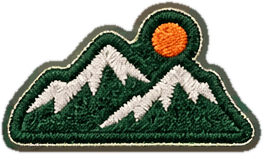
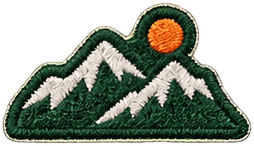
feat(wappen): 자수 패치 두 번째 시트 6개 추가 (체리 하트·궤도 별·스마일 데이지·번개 불꽃·보라 행성·파도) — 기본 세트 36개
- raster.py: 투명 배경 RGBA 시트는 알파 채널을 마스크·컷아웃 알파로 그대로 사용(부드러운 테두리 유지).
  첫 시트도 실제 투명 PNG 라 같은 방식으로 다시 잘려 몇 px 타이트해짐(manifest 치수 갱신)
- raster.json 에 sheets 항목 추가(2×3), 원본은 tools/wappen-seed/raster/patches-2026-10-07b.png
- 실수로 추적되던 tools/wappen-seed/__pycache__ 제거 + .gitignore

Claude-Session: https://claude.ai/code/session_01XcSYHLLpHyshgRvCfEcA1z

diff --git a/wappen/seed/manifest.js b/wappen/seed/manifest.js
@@ -3,34 +3,40 @@
 // 서버(functions/wappen-api.js admin_seed_items)와 관리자 화면이 같은 파일을 import.
 export const SEED_VERSION = 3;
 export const SEED_ITEMS = [
-    {"key": "p-cherry", "name": "체리 패치", "category": "과일", "tags": ["체리", "빨강", "자수"], "file": "p-cherry.png", "w": 243, "h": 217, "kind": "raster"},
-    {"key": "p-plaid-heart", "name": "체크 하트 핀", "category": "도형·기호", "tags": ["하트", "옷핀", "해골", "펑크", "자수"], "file": "p-plaid-heart.png", "w": 249, "h": 238, "kind": "raster"},
-    {"key": "p-what-the-hell", "name": "what the hell 별", "category": "글자", "tags": ["별", "what the hell", "영문", "자수"], "file": "p-what-the-hell.png", "w": 208, "h": 237, "kind": "raster"},
-    {"key": "p-checker-star", "name": "체커 별", "category": "도형·기호", "tags": ["별", "체크", "흑백", "자수"], "file": "p-checker-star.png", "w": 219, "h": 214, "kind": "raster"},
-    {"key": "p-pink-guitar", "name": "핑크 기타", "category": "음악", "tags": ["기타", "일렉", "핑크", "밴드", "자수"], "file": "p-pink-guitar.png", "w": 237, "h": 268, "kind": "raster"},
-    {"key": "p-pink-bolt", "name": "핑크 번개", "category": "도형·기호", "tags": ["번개", "핑크", "자수"], "file": "p-pink-bolt.png", "w": 159, "h": 215, "kind": "raster"},
-    {"key": "p-pork-bowl", "name": "네기시오 부타동", "category": "음식", "tags": ["덮밥", "돈부리", "일식", "자수"], "file": "p-pork-bowl.png", "w": 263, "h": 209, "kind": "raster"},
-    {"key": "p-orange-daisy", "name": "주황 데이지", "category": "캐릭터·자연", "tags": ["꽃", "데이지", "주황", "자수"], "file": "p-orange-daisy.png", "w": 180, "h": 213, "kind": "raster"},
-    {"key": "p-get-lucky", "name": "GET LUCKY!", "category": "글자", "tags": ["get lucky", "행운", "영문", "자수"], "file": "p-get-lucky.png", "w": 229, "h": 188, "kind": "raster"},
-    {"key": "p-blue-butterfly", "name": "파랑 나비", "category": "동물", "tags": ["나비", "파랑", "자수"], "file": "p-blue-butterfly.png", "w": 258, "h": 194, "kind": "raster"},
-    {"key": "p-addiction", "name": "Addiction", "category": "글자", "tags": ["addiction", "하트", "영문", "자수"], "file": "p-addiction.png", "w": 289, "h": 171, "kind": "raster"},
-    {"key": "p-three-stars", "name": "별 세 개", "category": "도형·기호", "tags": ["별", "반짝", "흰색", "자수"], "file": "p-three-stars.png", "w": 160, "h": 176, "kind": "raster"},
-    {"key": "p-marigold", "name": "메리골드", "category": "캐릭터·자연", "tags": ["꽃", "메리골드", "주황", "자수"], "file": "p-marigold.png", "w": 198, "h": 186, "kind": "raster"},
-    {"key": "p-moon-star", "name": "초승달과 별", "category": "캐릭터·자연", "tags": ["달", "별", "밤", "자수"], "file": "p-moon-star.png", "w": 185, "h": 182, "kind": "raster"},
-    {"key": "p-stand-up", "name": "stand up!", "category": "글자", "tags": ["stand up", "영문", "자수"], "file": "p-stand-up.png", "w": 204, "h": 187, "kind": "raster"},
-    {"key": "p-vinyl", "name": "LP 레코드", "category": "음악", "tags": ["LP", "레코드", "음반", "자수"], "file": "p-vinyl.png", "w": 218, "h": 188, "kind": "raster"},
-    {"key": "p-wing-heart", "name": "날개 하트", "category": "도형·기호", "tags": ["하트", "별", "핑크", "자수"], "file": "p-wing-heart.png", "w": 258, "h": 158, "kind": "raster"},
-    {"key": "p-flame", "name": "불꽃", "category": "도형·기호", "tags": ["불", "화염", "빨강", "자수"], "file": "p-flame.png", "w": 180, "h": 200, "kind": "raster"},
-    {"key": "p-burst", "name": "펑 폭발", "category": "도형·기호", "tags": ["폭발", "번쩍", "파랑", "자수"], "file": "p-burst.png", "w": 214, "h": 174, "kind": "raster"},
-    {"key": "p-loud-hot-crazy", "name": "LOUD! HOT! CRAZY!", "category": "글자", "tags": ["loud", "hot", "crazy", "영문", "자수"], "file": "p-loud-hot-crazy.png", "w": 235, "h": 188, "kind": "raster"},
-    {"key": "p-bandage-heart", "name": "반창고 하트", "category": "도형·기호", "tags": ["하트", "반창고", "체크", "자수"], "file": "p-bandage-heart.png", "w": 208, "h": 177, "kind": "raster"},
-    {"key": "p-sunset", "name": "석양", "category": "캐릭터·자연", "tags": ["노을", "바다", "해", "자수"], "file": "p-sunset.png", "w": 242, "h": 165, "kind": "raster"},
-    {"key": "p-mountain", "name": "산과 해", "category": "캐릭터·자연", "tags": ["산", "해", "자연", "자수"], "file": "p-mountain.png", "w": 263, "h": 154, "kind": "raster"},
-    {"key": "p-dolphin", "name": "돌고래", "category": "동물", "tags": ["돌고래", "바다", "파랑", "자수"], "file": "p-dolphin.png", "w": 221, "h": 182, "kind": "raster"},
-    {"key": "p-pink-flower", "name": "분홍 꽃", "category": "캐릭터·자연", "tags": ["꽃", "분홍", "자수"], "file": "p-pink-flower.png", "w": 173, "h": 166, "kind": "raster"},
-    {"key": "p-zebra-star", "name": "얼룩 별", "category": "도형·기호", "tags": ["별", "줄무늬", "흑백", "자수"], "file": "p-zebra-star.png", "w": 188, "h": 177, "kind": "raster"},
-    {"key": "p-saturn", "name": "토성", "category": "캐릭터·자연", "tags": ["토성", "행성", "우주", "자수"], "file": "p-saturn.png", "w": 229, "h": 153, "kind": "raster"},
-    {"key": "p-black-cat", "name": "검은 고양이", "category": "동물", "tags": ["고양이", "검정", "자수"], "file": "p-black-cat.png", "w": 191, "h": 161, "kind": "raster"},
-    {"key": "p-dice", "name": "빨간 주사위", "category": "도형·기호", "tags": ["주사위", "빨강", "게임", "자수"], "file": "p-dice.png", "w": 202, "h": 164, "kind": "raster"},
-    {"key": "p-music-note", "name": "핑크 음표", "category": "음악", "tags": ["음표", "음악", "핑크", "자수"], "file": "p-music-note.png", "w": 141, "h": 169, "kind": "raster"},
+    {"key": "p-cherry", "name": "체리 패치", "category": "과일", "tags": ["체리", "빨강", "자수"], "file": "p-cherry.png", "w": 235, "h": 209, "kind": "raster"},
+    {"key": "p-plaid-heart", "name": "체크 하트 핀", "category": "도형·기호", "tags": ["하트", "옷핀", "해골", "펑크", "자수"], "file": "p-plaid-heart.png", "w": 242, "h": 230, "kind": "raster"},
+    {"key": "p-what-the-hell", "name": "what the hell 별", "category": "글자", "tags": ["별", "what the hell", "영문", "자수"], "file": "p-what-the-hell.png", "w": 199, "h": 229, "kind": "raster"},
+    {"key": "p-checker-star", "name": "체커 별", "category": "도형·기호", "tags": ["별", "체크", "흑백", "자수"], "file": "p-checker-star.png", "w": 213, "h": 208, "kind": "raster"},
+    {"key": "p-pink-guitar", "name": "핑크 기타", "category": "음악", "tags": ["기타", "일렉", "핑크", "밴드", "자수"], "file": "p-pink-guitar.png", "w": 230, "h": 261, "kind": "raster"},
+    {"key": "p-pink-bolt", "name": "핑크 번개", "category": "도형·기호", "tags": ["번개", "핑크", "자수"], "file": "p-pink-bolt.png", "w": 155, "h": 211, "kind": "raster"},
+    {"key": "p-pork-bowl", "name": "네기시오 부타동", "category": "음식", "tags": ["덮밥", "돈부리", "일식", "자수"], "file": "p-pork-bowl.png", "w": 256, "h": 200, "kind": "raster"},
+    {"key": "p-orange-daisy", "name": "주황 데이지", "category": "캐릭터·자연", "tags": ["꽃", "데이지", "주황", "자수"], "file": "p-orange-daisy.png", "w": 173, "h": 205, "kind": "raster"},
+    {"key": "p-get-lucky", "name": "GET LUCKY!", "category": "글자", "tags": ["get lucky", "행운", "영문", "자수"], "file": "p-get-lucky.png", "w": 222, "h": 181, "kind": "raster"},
+    {"key": "p-blue-butterfly", "name": "파랑 나비", "category": "동물", "tags": ["나비", "파랑", "자수"], "file": "p-blue-butterfly.png", "w": 251, "h": 188, "kind": "raster"},
+    {"key": "p-addiction", "name": "Addiction", "category": "글자", "tags": ["addiction", "하트", "영문", "자수"], "file": "p-addiction.png", "w": 284, "h": 166, "kind": "raster"},
+    {"key": "p-three-stars", "name": "별 세 개", "category": "도형·기호", "tags": ["별", "반짝", "흰색", "자수"], "file": "p-three-stars.png", "w": 153, "h": 169, "kind": "raster"},
+    {"key": "p-marigold", "name": "메리골드", "category": "캐릭터·자연", "tags": ["꽃", "메리골드", "주황", "자수"], "file": "p-marigold.png", "w": 191, "h": 179, "kind": "raster"},
+    {"key": "p-moon-star", "name": "초승달과 별", "category": "캐릭터·자연", "tags": ["달", "별", "밤", "자수"], "file": "p-moon-star.png", "w": 177, "h": 174, "kind": "raster"},
+    {"key": "p-stand-up", "name": "stand up!", "category": "글자", "tags": ["stand up", "영문", "자수"], "file": "p-stand-up.png", "w": 198, "h": 179, "kind": "raster"},
+    {"key": "p-vinyl", "name": "LP 레코드", "category": "음악", "tags": ["LP", "레코드", "음반", "자수"], "file": "p-vinyl.png", "w": 211, "h": 182, "kind": "raster"},
+    {"key": "p-wing-heart", "name": "날개 하트", "category": "도형·기호", "tags": ["하트", "별", "핑크", "자수"], "file": "p-wing-heart.png", "w": 251, "h": 150, "kind": "raster"},
+    {"key": "p-flame", "name": "불꽃", "category": "도형·기호", "tags": ["불", "화염", "빨강", "자수"], "file": "p-flame.png", "w": 173, "h": 192, "kind": "raster"},
+    {"key": "p-burst", "name": "펑 폭발", "category": "도형·기호", "tags": ["폭발", "번쩍", "파랑", "자수"], "file": "p-burst.png", "w": 207, "h": 167, "kind": "raster"},
+    {"key": "p-loud-hot-crazy", "name": "LOUD! HOT! CRAZY!", "category": "글자", "tags": ["loud", "hot", "crazy", "영문", "자수"], "file": "p-loud-hot-crazy.png", "w": 228, "h": 181, "kind": "raster"},
+    {"key": "p-bandage-heart", "name": "반창고 하트", "category": "도형·기호", "tags": ["하트", "반창고", "체크", "자수"], "file": "p-bandage-heart.png", "w": 199, "h": 171, "kind": "raster"},
+    {"key": "p-sunset", "name": "석양", "category": "캐릭터·자연", "tags": ["노을", "바다", "해", "자수"], "file": "p-sunset.png", "w": 235, "h": 159, "kind": "raster"},
+    {"key": "p-mountain", "name": "산과 해", "category": "캐릭터·자연", "tags": ["산", "해", "자연", "자수"], "file": "p-mountain.png", "w": 254, "h": 146, "kind": "raster"},
+    {"key": "p-dolphin", "name": "돌고래", "category": "동물", "tags": ["돌고래", "바다", "파랑", "자수"], "file": "p-dolphin.png", "w": 214, "h": 176, "kind": "raster"},
+    {"key": "p-pink-flower", "name": "분홍 꽃", "category": "캐릭터·자연", "tags": ["꽃", "분홍", "자수"], "file": "p-pink-flower.png", "w": 164, "h": 159, "kind": "raster"},
+    {"key": "p-zebra-star", "name": "얼룩 별", "category": "도형·기호", "tags": ["별", "줄무늬", "흑백", "자수"], "file": "p-zebra-star.png", "w": 182, "h": 169, "kind": "raster"},
+    {"key": "p-saturn", "name": "토성", "category": "캐릭터·자연", "tags": ["토성", "행성", "우주", "자수"], "file": "p-saturn.png", "w": 222, "h": 146, "kind": "raster"},
+    {"key": "p-black-cat", "name": "검은 고양이", "category": "동물", "tags": ["고양이", "검정", "자수"], "file": "p-black-cat.png", "w": 185, "h": 156, "kind": "raster"},
+    {"key": "p-dice", "name": "빨간 주사위", "category": "도형·기호", "tags": ["주사위", "빨강", "게임", "자수"], "file": "p-dice.png", "w": 196, "h": 158, "kind": "raster"},
+    {"key": "p-music-note", "name": "핑크 음표", "category": "음악", "tags": ["음표", "음악", "핑크", "자수"], "file": "p-music-note.png", "w": 134, "h": 162, "kind": "raster"},
+    {"key": "p2-cherry-heart", "name": "체리 하트", "category": "도형·기호", "tags": ["하트", "체리", "핑크", "반짝", "자수"], "file": "p2-cherry-heart.png", "w": 400, "h": 380, "kind": "raster"},
+    {"key": "p2-orbit-star", "name": "궤도 별", "category": "도형·기호", "tags": ["별", "궤도", "파랑", "반짝", "자수"], "file": "p2-orbit-star.png", "w": 418, "h": 413, "kind": "raster"},
+    {"key": "p2-smile-daisy", "name": "스마일 데이지", "category": "캐릭터·자연", "tags": ["꽃", "데이지", "스마일", "자수"], "file": "p2-smile-daisy.png", "w": 404, "h": 419, "kind": "raster"},
+    {"key": "p2-bolt-flame", "name": "번개 불꽃", "category": "도형·기호", "tags": ["불", "번개", "빨강", "자수"], "file": "p2-bolt-flame.png", "w": 356, "h": 446, "kind": "raster"},
+    {"key": "p2-purple-planet", "name": "보라 행성", "category": "캐릭터·자연", "tags": ["행성", "토성", "우주", "보라", "자수"], "file": "p2-purple-planet.png", "w": 376, "h": 319, "kind": "raster"},
+    {"key": "p2-wave", "name": "파도", "category": "캐릭터·자연", "tags": ["파도", "바다", "파랑", "자수"], "file": "p2-wave.png", "w": 409, "h": 353, "kind": "raster"},
 ];

diff --git a/tools/wappen-seed/raster.py b/tools/wappen-seed/raster.py
@@ -3,6 +3,7 @@
 # 알고리즘(의존: numpy·PIL): 배경은 부드러운 그라데이션, 패치는 자수 질감 → 국소 그라데이션 평균이 임계보다 큰 곳 = 전경
 #   → 닫힘(7px)·구멍 메움 → 연결 성분 → 중심 좌표를 행·열 묶음으로 격자 배정(너무 길쭉하면 가장 잘록한 줄에서 둘로 분리)
 #   → 셀마다 성분 합집합을 알파로(1px 팽창 + 0.8px 블러), 256색 팔레트(디더)로 저장.
+#   시트가 이미 투명 배경(RGBA, 투명 비율 20% 이상)이면 질감 대신 알파 채널(>128)을 마스크로 쓰고, 컷아웃 알파도 원본 알파를 그대로 쓴다(부드러운 테두리 유지).
 import json, os, sys
 import numpy as np
 from PIL import Image, ImageDraw, ImageFilter
@@ -51,12 +52,21 @@ def _split_waist(c):
 def cut_sheet(sheet, out_dir, src_dir=None):
     """시트 하나를 잘라 out_dir 에 저장, manifest 항목 목록을 돌려준다"""
     src = os.path.join(src_dir or os.path.join(HERE, 'raster'), sheet['src'])
-    im = Image.open(src).convert('RGB'); a = np.asarray(im).astype(np.float32)
-    g = np.abs(np.diff(a, axis=1, prepend=a[:, :1])).sum(2) + np.abs(np.diff(a, axis=0, prepend=a[:1])).sum(2)
-    mask = Image.fromarray(((_boxmean(g, 4) > sheet.get('threshold', 18)) * 255).astype(np.uint8))
-    mask = mask.filter(ImageFilter.MaxFilter(7)).filter(ImageFilter.MinFilter(7))
-    inv = Image.eval(mask, lambda v: 255 - v); ImageDraw.floodfill(inv, (0, 0), 128)
-    mk = (np.asarray(mask) > 0) | (np.asarray(inv) == 255)          # 바깥과 안 이어진 배경 = 구멍 → 전경
+    src_im = Image.open(src)
+    src_alpha = None
+    if src_im.mode in ('RGBA', 'LA', 'P'):
+        al = np.asarray(src_im.convert('RGBA'))[:, :, 3]
+        if (al < 10).mean() >= 0.2: src_alpha = al                      # 진짜 투명 배경 시트
+    im = src_im.convert('RGB')
+    if src_alpha is not None:
+        mk = src_alpha > 128
+    else:
+        a = np.asarray(im).astype(np.float32)
+        g = np.abs(np.diff(a, axis=1, prepend=a[:, :1])).sum(2) + np.abs(np.diff(a, axis=0, prepend=a[:1])).sum(2)
+        mask = Image.fromarray(((_boxmean(g, 4) > sheet.get('threshold', 18)) * 255).astype(np.uint8))
+        mask = mask.filter(ImageFilter.MaxFilter(7)).filter(ImageFilter.MinFilter(7))
+        inv = Image.eval(mask, lambda v: 255 - v); ImageDraw.floodfill(inv, (0, 0), 128)
+        mk = (np.asarray(mask) > 0) | (np.asarray(inv) == 255)      # 바깥과 안 이어진 배경 = 구멍 → 전경
     comps = [c for c in _components(mk) if c['area'] >= sheet.get('min_area', 600)]
     rows, cols = sheet['rows'], sheet['cols']
     med_h = float(np.median([c['bbox'][3] - c['bbox'][1] for c in comps]))
@@ -78,7 +88,11 @@ def cut_sheet(sheet, out_dir, src_dir=None):
         for c in group: sel |= c['sel']
         yy, xx = np.nonzero(sel); pad = 3
         x0, y0, x1, y1 = max(0, xx.min() - pad), max(0, yy.min() - pad), min(im.width, xx.max() + pad + 1), min(im.height, yy.max() + pad + 1)
-        alpha = Image.fromarray((sel[y0:y1, x0:x1] * 255).astype(np.uint8)).filter(ImageFilter.MaxFilter(3)).filter(ImageFilter.GaussianBlur(0.8))
+        if src_alpha is not None:   # 원본 알파를 그대로(셀에 속한 성분 밖은 0)
+            keep = Image.fromarray((sel[y0:y1, x0:x1] * 255).astype(np.uint8)).filter(ImageFilter.MaxFilter(5))
+            alpha = Image.fromarray(np.where(np.asarray(keep) > 0, src_alpha[y0:y1, x0:x1], 0).astype(np.uint8))
+        else:
+            alpha = Image.fromarray((sel[y0:y1, x0:x1] * 255).astype(np.uint8)).filter(ImageFilter.MaxFilter(3)).filter(ImageFilter.GaussianBlur(0.8))
         rgba = im.crop((x0, y0, x1, y1)).convert('RGBA'); rgba.putalpha(alpha)
         fn = meta['key'] + '.png'
         pal = rgba.quantize(colors=256, method=Image.Quantize.FASTOCTREE, dither=Image.Dither.FLOYDSTEINBERG)

diff --git a/CLAUDE.md b/CLAUDE.md
@@ -157,6 +157,7 @@
   한글 글자 와펜은 저장소 꾸불림체 TTF 를 빌드 때 가짜 URL(`http://seed.local/`)로 서빙해 렌더. 새 와펜은 designs.mjs 에 `add()` 한 줄 → 빌드 → 커밋.
   **래스터 세트**(2026-10-07, `kind:'raster'`, 키 `p-…`, SEED_VERSION 2): 운영자가 준 자수 패치 시트(`tools/wappen-seed/raster/*.png`, 격자 5×6)를 `raster.py` 가
   질감(국소 그라데이션) 마스크 → 닫힘·구멍 메움 → 연결 성분 → 행·열 묶음 배정(길쭉하면 잘록한 줄에서 분리) → 셀별 알파로 잘라 원본 해상도 그대로 저장(numpy·PIL 만).
+  시트가 투명 배경 RGBA(투명 20% 이상)면 질감 대신 **알파 채널을 마스크·컷아웃 알파로 그대로** 쓴다(두 시트 모두 해당, 2026-10-07 두 번째 시트 6개 = 키 `p2-…`, 총 36개).
   메타는 `raster.json`(시트·rows/cols·threshold·항목 순서 = 읽기 순). `finish.py` 가 벡터 뒤에 합쳐 manifest 를 쓰고, `finish.py --reuse wappen/seed --no-vector` 는 벡터 없이 래스터만 다시 자른다.
   시트 한 장 추가 = raster.json 에 sheets 항목 + 이미지 커밋 → `--reuse` 실행 → 관리자 [불러오기]. 유닛 테스트는 래스터를 100~1024px·≤160KB 로 따로 검사.
   **app.js 를 고치면 `wappen/index.html` 의 `app.js?v=N` 을 반드시 올릴 것**(안 올리면 폰이 예전 코드를 씀 — 2026-10-06 두 번 누락).

diff --git a/wappen/seed/README.md b/wappen/seed/README.md
@@ -4,7 +4,7 @@
 - 벡터 세트(옵트인): `tools/wappen-seed/designs.mjs` 에서 **코드로 그린 원본 그림** (외부 아이콘·이모지·사진 사용 없음, CC0). 다시 쓰려면 `build.mjs` 를 돌리면 렌더·목록 포함까지 된다.
   DB 에 남은 이전 세트 행은 관리자 와펜 탭 [이전 세트 N개 삭제](`admin_seed_prune`: seed 경로지만 현재 목록에 없는 행, 작품에 쓰인 것은 숨김)로 정리.
 - 래스터 세트(`manifest.js` 의 `kind: "raster"`, 키 `p-…`): `tools/wappen-seed/raster/` 의 시트 이미지(2026-10-07 운영자가 제공한 자수 패치 30개)를
-  `raster.py` 가 자동으로 잘라낸 것(질감 기반 배경 제거, 원본 해상도 유지 ≈ 150~290px). 권리는 제공자에게 있으며 메타는 `raster.json`.
+  `raster.py` 가 자동으로 잘라낸 것(투명 배경 시트는 알파 채널 그대로, 아니면 질감 기반 배경 제거; 원본 해상도 유지). 두 번째 시트(2026-10-07b, 키 `p2-…`) 6개 포함 36개. 권리는 제공자에게 있으며 메타는 `raster.json`.
   래스터만 다시 자르려면(Playwright 불필요): `python3 -I tools/wappen-seed/finish.py --reuse wappen/seed [미리보기.png] --no-vector`. 새 시트는 `raster.json` 에 시트·격자·항목을 추가.
 
 - 재생성: `NODE_PATH=<scratchpad>/node_modules node tools/wappen-seed/build.mjs --raw <임시폴더> --sheet <미리보기.png>`
